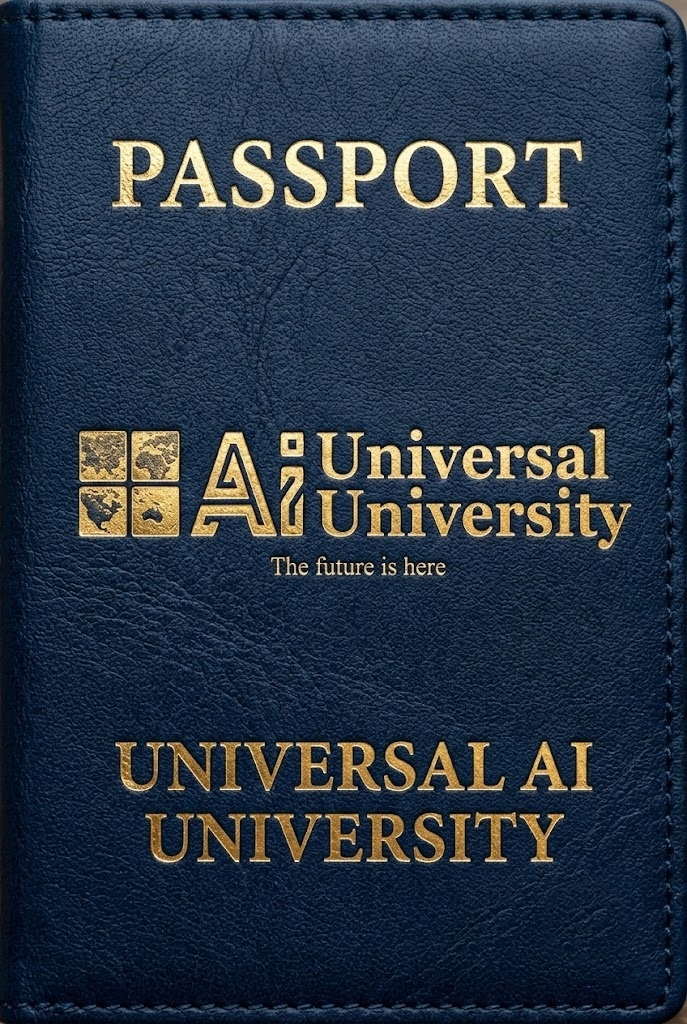
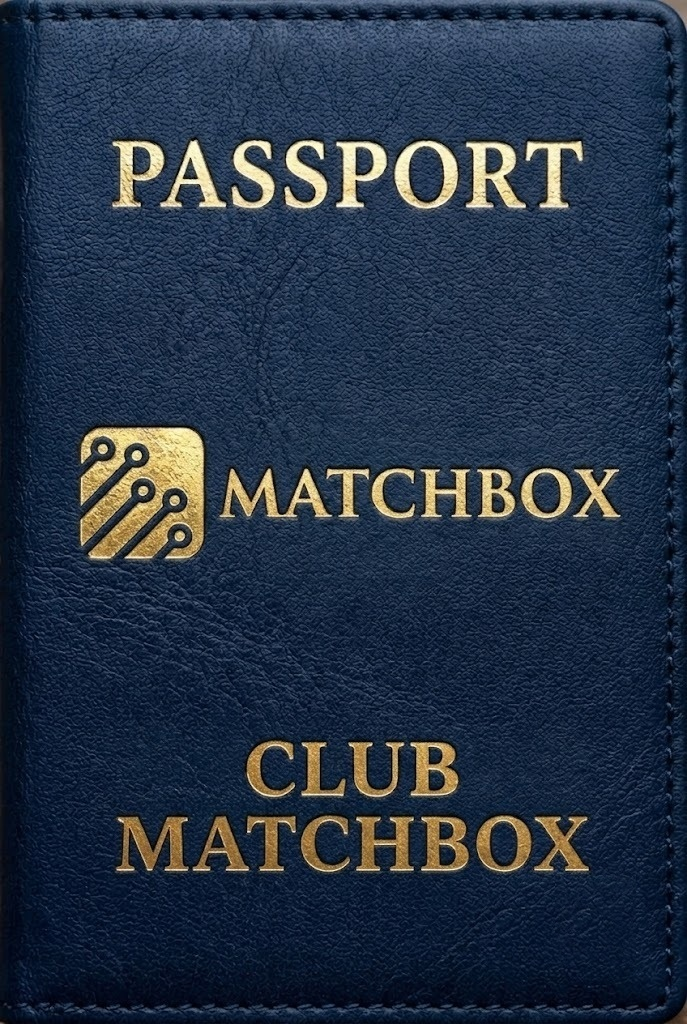
Final Version

diff --git a/src/components/Preloader.tsx b/src/components/Preloader.tsx
@@ -167,20 +167,45 @@ export const Preloader: React.FC<PreloaderProps> = ({ onComplete }) => {
           <Compass size={15} style={{ color: '#dfba57' }} />
         </div>
 
-        <h2
+        <div
           style={{
-            fontFamily: 'var(--font-cinzel)',
-            fontSize: 'clamp(2.4rem, 7vw, 4.8rem)',
-            fontWeight: 800,
-            letterSpacing: '0.18em',
-            color: '#fdfbf7',
-            textTransform: 'uppercase',
-            lineHeight: 1.15,
-            textShadow: '0 8px 32px rgba(0, 0, 0, 0.85), 0 0 45px rgba(223, 186, 87, 0.3)',
+            display: 'flex',
+            alignItems: 'center',
+            justifyContent: 'center',
+            gap: 'clamp(14px, 2.8vw, 24px)',
+            flexWrap: 'wrap',
           }}
         >
-          CLUB MATCHBOX
-        </h2>
+          <img
+            src={EVENT_CONFIG.assets.matchboxLogo}
+            alt="Club Matchbox Logo"
+            style={{
+              height: 'clamp(34px, 5.5vw, 54px)',
+              objectFit: 'contain',
+              background: '#fdfbf7',
+              padding: '4px 10px',
+              borderRadius: '8px',
+              border: '1px solid rgba(223, 186, 87, 0.6)',
+              boxShadow: '0 4px 20px rgba(0, 0, 0, 0.5), 0 0 25px rgba(223, 186, 87, 0.25)',
+              display: 'block',
+            }}
+          />
+          <h2
+            style={{
+              fontFamily: 'var(--font-cinzel)',
+              fontSize: 'clamp(2.4rem, 7vw, 4.8rem)',
+              fontWeight: 800,
+              letterSpacing: '0.18em',
+              color: '#fdfbf7',
+              textTransform: 'uppercase',
+              lineHeight: 1.15,
+              textShadow: '0 8px 32px rgba(0, 0, 0, 0.85), 0 0 45px rgba(223, 186, 87, 0.3)',
+              margin: 0,
+            }}
+          >
+            CLUB MATCHBOX
+          </h2>
+        </div>
 
         <div
           style={{
